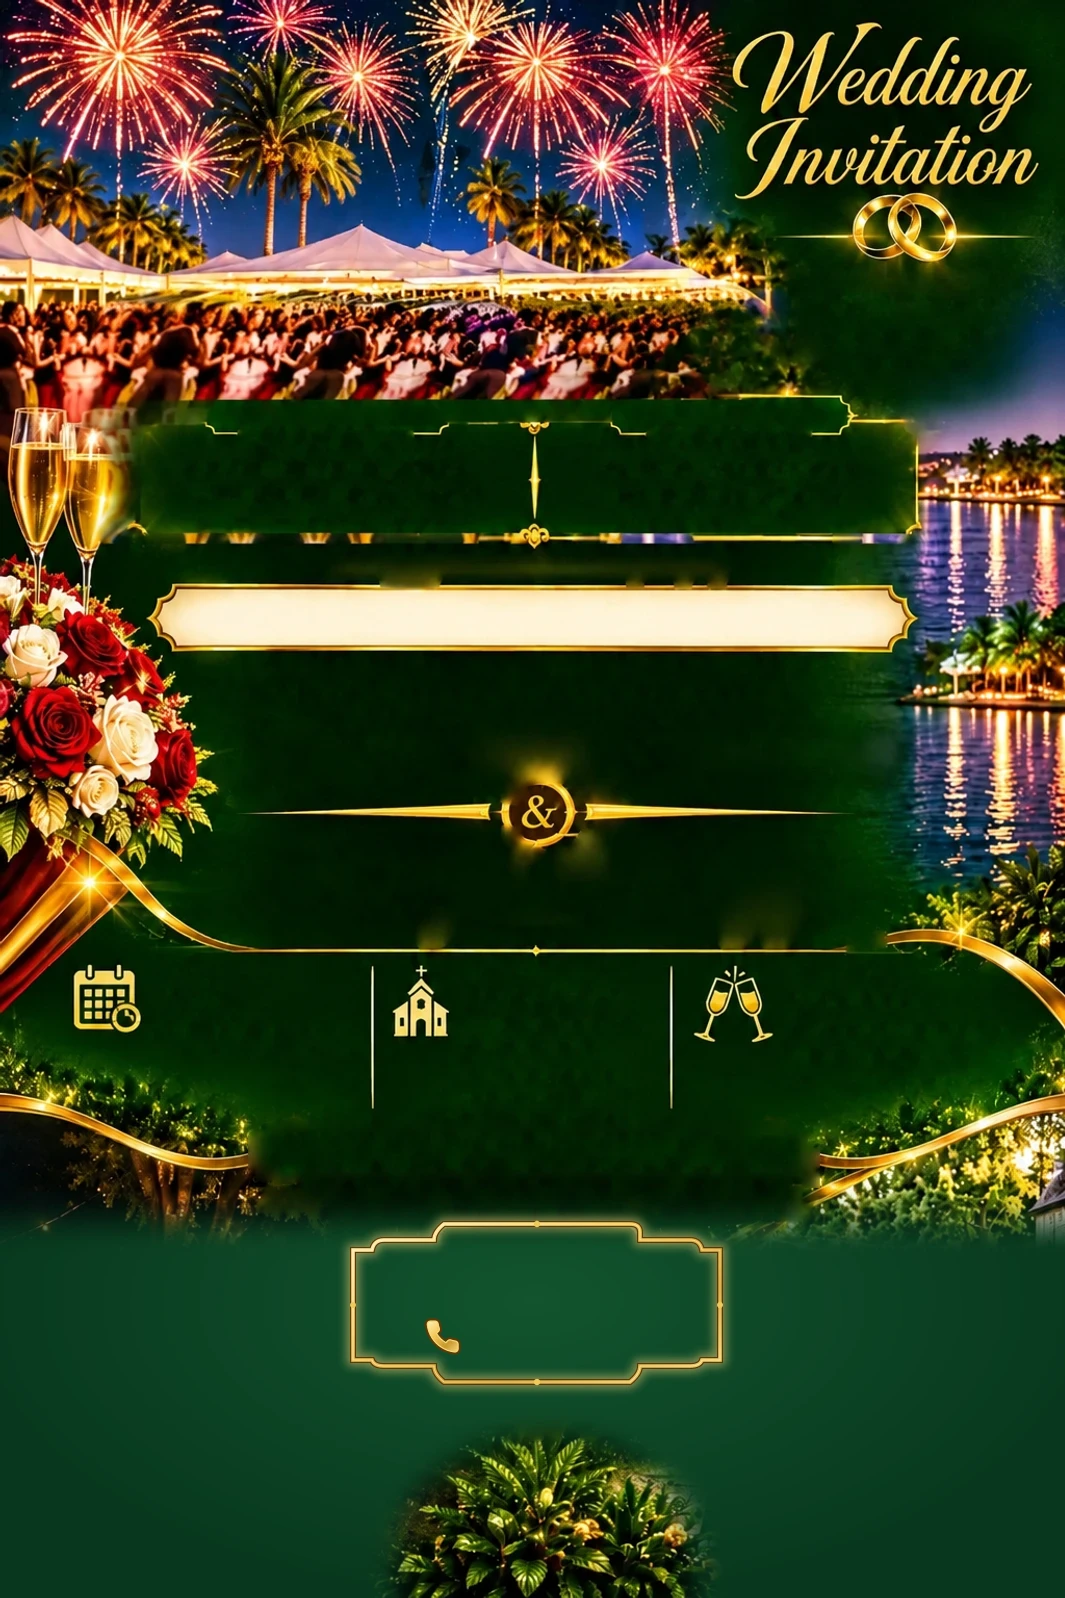
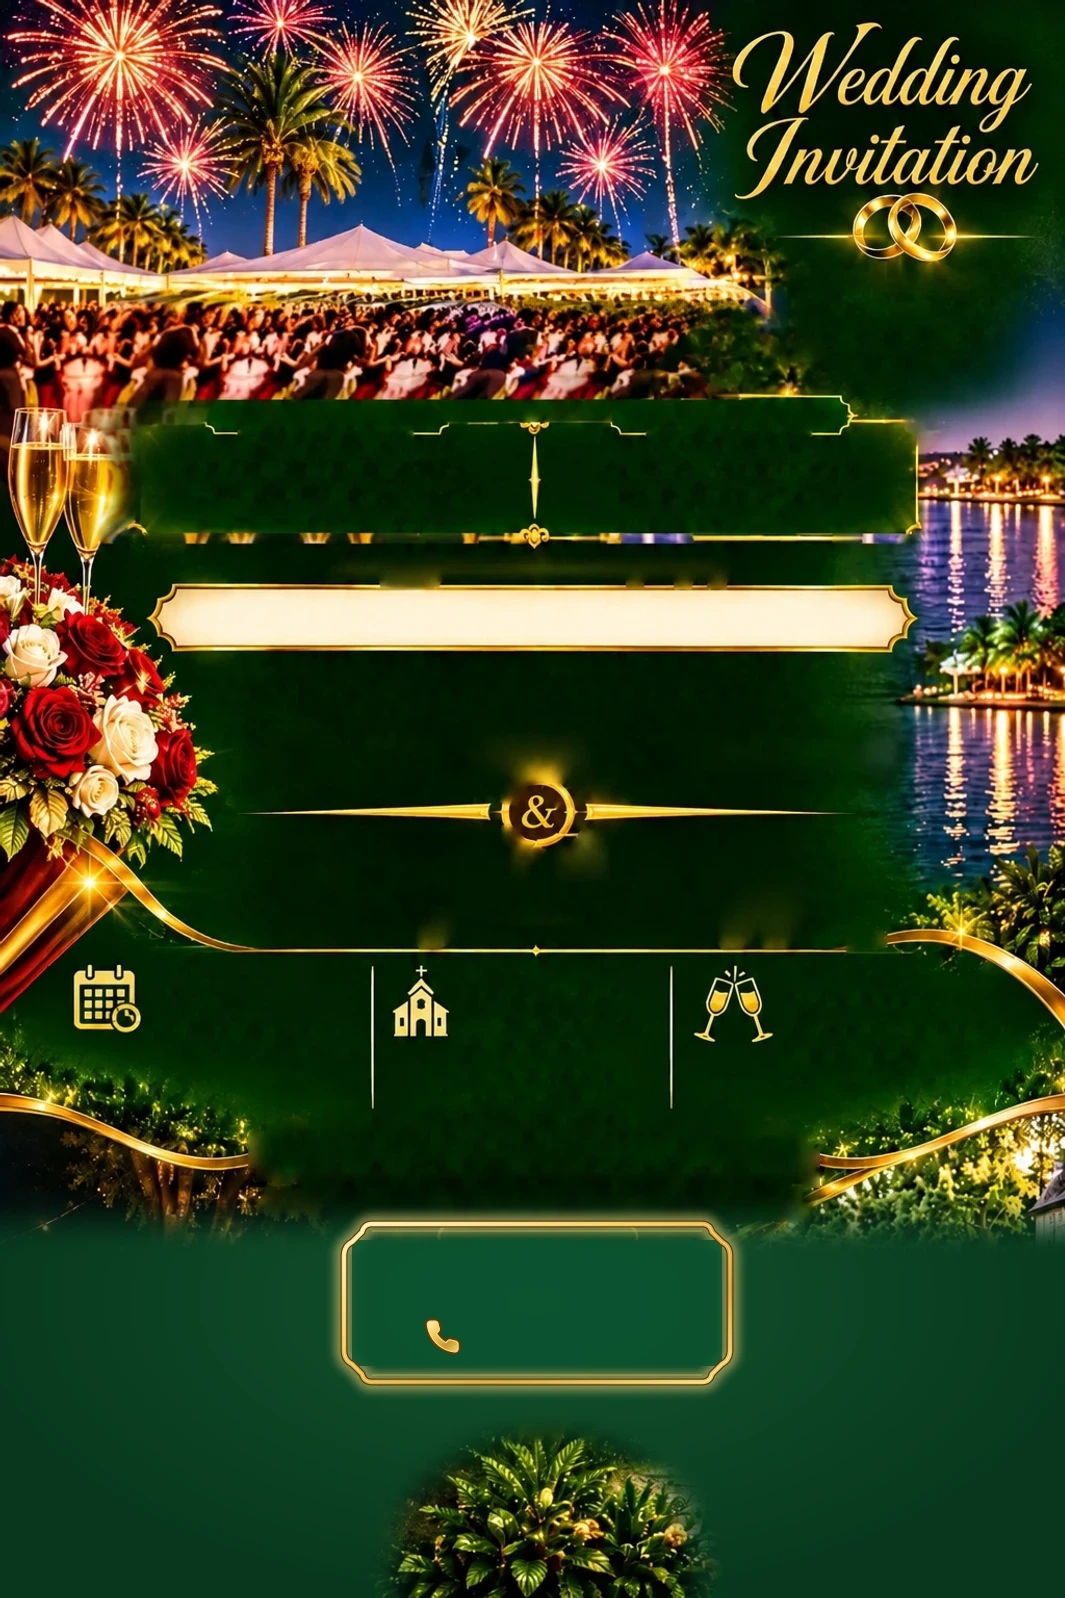
RSVP box in the badge style
The RSVP frame is now a filled emerald panel with a thick gold border and
notched corners, matching the design's badge style, instead of an outline.

Changed region(s): [[0.3099, 0.7359, 0.7127, 0.8892]]

diff --git a/tools/poster-build/build-calm-bottom.js b/tools/poster-build/build-calm-bottom.js
@@ -42,14 +42,17 @@ const ss = (t) => (t <= 0 ? 0 : t >= 1 ? 1 : t * t * (3 - 2 * t));
       <linearGradient id="g" x1="0" y1="0" x2="1" y2="1"><stop offset="0" stop-color="#FFF1B8"/><stop offset=".35" stop-color="#F3C85A"/><stop offset=".7" stop-color="#C9962E"/><stop offset="1" stop-color="#F7DA7A"/></linearGradient>
       <filter id="glow" x="-10%" y="-20%" width="120%" height="140%"><feGaussianBlur stdDeviation="5"/></filter>
     </defs>
-    <path id="fr" d="M444 1224 H630 Q640 1224 640 1232 V1240 H690 Q700 1240 702 1250 H720 V1360 H702 Q700 1366 690 1366 H640 Q640 1374 630 1382 H444 Q434 1374 434 1366 H384 Q374 1366 372 1360 H353 V1250 H372 Q374 1240 384 1240 H434 Q434 1232 444 1224 Z" fill="none"/>
-    <use href="#fr" stroke="#F6D27A" stroke-opacity=".55" stroke-width="12" filter="url(#glow)"/>
-    <use href="#fr" stroke="#5A3A08" stroke-width="6"/>
-    <use href="#fr" stroke="url(#g)" stroke-width="3.6"/>
-    <use href="#fr" stroke="#FFF6D0" stroke-opacity=".6" stroke-width="1"/>
+    <!-- the badge: a filled emerald panel with notched corners (the design's "Color Theme" style), thick gold border -->
+    <path id="fr" d="M372 1224 H702 Q710 1224 712 1232 L722 1242 Q730 1246 730 1256 V1350 Q730 1360 722 1364 L712 1374 Q710 1382 702 1382 H372 Q364 1382 362 1374 L352 1364 Q344 1360 344 1350 V1256 Q344 1246 352 1242 L362 1232 Q364 1224 372 1224 Z" fill="none"/>
+    <use href="#fr" stroke="#F6D27A" stroke-opacity=".55" stroke-width="18" filter="url(#glow)"/>
+    <use href="#fr" fill="#0B4A2A" stroke="none"/>
+    <path d="M352 1240 H722 V1366 H352 Z" fill="#0C5431" opacity=".85"/>
+    <use href="#fr" stroke="#5A3A08" stroke-width="7"/>
+    <use href="#fr" stroke="url(#g)" stroke-width="4.5"/>
+    <use href="#fr" stroke="#FFF6D0" stroke-opacity=".55" stroke-width="1"/>
+    <path d="M372 1231 H702 M372 1375 H702" stroke="#F3C85A" stroke-opacity=".45" stroke-width="1.2"/>
     <g transform="translate(424 1318) scale(1.55)" fill="none" stroke="#5A3A08" stroke-width="3.6" stroke-linecap="round" stroke-linejoin="round"><path d="M22 16.92v3a2 2 0 0 1-2.18 2 19.79 19.79 0 0 1-8.63-3.07 19.5 19.5 0 0 1-6-6 19.79 19.79 0 0 1-3.07-8.67A2 2 0 0 1 4.11 2h3a2 2 0 0 1 2 1.72 12.84 12.84 0 0 0 .7 2.81 2 2 0 0 1-.45 2.11L8.09 9.91a16 16 0 0 0 6 6l1.27-1.27a2 2 0 0 1 2.11-.45 12.84 12.84 0 0 0 2.81.7A2 2 0 0 1 22 16.92z"/></g>
     <g transform="translate(424 1318) scale(1.55)" fill="url(#g)" stroke="#F7DA7A" stroke-width=".8" stroke-linejoin="round"><path d="M22 16.92v3a2 2 0 0 1-2.18 2 19.79 19.79 0 0 1-8.63-3.07 19.5 19.5 0 0 1-6-6 19.79 19.79 0 0 1-3.07-8.67A2 2 0 0 1 4.11 2h3a2 2 0 0 1 2 1.72 12.84 12.84 0 0 0 .7 2.81 2 2 0 0 1-.45 2.11L8.09 9.91a16 16 0 0 0 6 6l1.27-1.27a2 2 0 0 1 2.11-.45 12.84 12.84 0 0 0 2.81.7A2 2 0 0 1 22 16.92z"/></g>
-    <g fill="#F3C85A"><circle cx="537" cy="1224" r="3.2"/><circle cx="537" cy="1382" r="3.2"/><circle cx="353" cy="1305" r="3"/><circle cx="720" cy="1305" r="3"/></g>
   </svg>`;
   await sharp(b, { raw: { width: W, height: H, channels: 3 } }).composite([{ input: Buffer.from(F) }]).webp({ quality: 90 }).toFile(OUT + '/poster.webp');
   await sharp(OUT + '/poster.webp').extract({ left: 0, top: 1120, width: W, height: 478 }).png().toFile(OUT + '/bottom.png');
